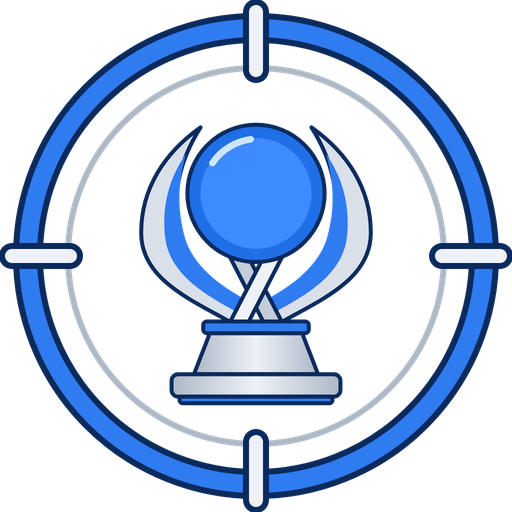
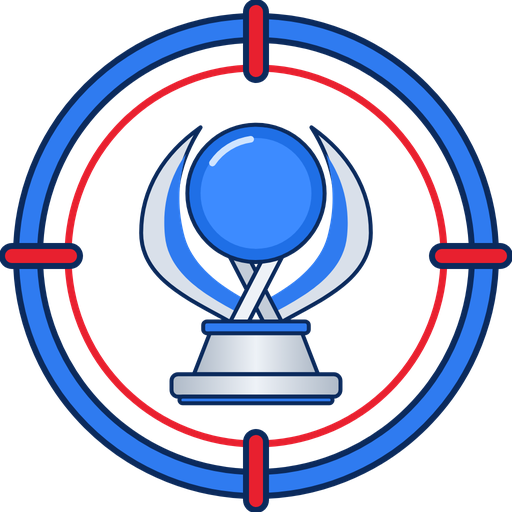
Ícone: mira com detalhes em vermelho
As marcas da mira e o anel interno ficam vermelhos; ícones de todas as
densidades, telas de abertura e imagens da Play Store regerados.

Claude-Session: https://claude.ai/code/session_017mpu5v6dnX2X2pzJxWtcg4

Changed region(s): [[0.0, 0.0, 1.0, 1.0]]

diff --git a/README.md b/README.md
@@ -130,7 +130,7 @@ npm run android:build              # compila mobile/ e copia para android/
 npx cap open android               # abre no Android Studio → Run
 ```
 
-O ícone é um troféu de platina em 2D dentro de um alvo de caça (mira), sem os símbolos dos botões da PlayStation, com fundo transparente, desenhado em vetor em `assets/app-icon.svg` (com uma versão `assets/app-icon.png` de 1024 px). Os PNGs gerados a partir dele ficam em `android/app/src/main/res/`: ícone comum e redondo, ícone adaptativo (troféu na camada da frente e camada de fundo transparente) e as telas de abertura. Para a Play Store há `assets/play-store-icon.png` (512 px, fundo escuro) e `assets/play-store-feature.png` (imagem de destaque 1024×500).
+O ícone é um troféu de platina em 2D dentro de um alvo de caça (mira azul com detalhes em vermelho), sem os símbolos dos botões da PlayStation, com fundo transparente, desenhado em vetor em `assets/app-icon.svg` (com uma versão `assets/app-icon.png` de 1024 px). Os PNGs gerados a partir dele ficam em `android/app/src/main/res/`: ícone comum e redondo, ícone adaptativo (troféu na camada da frente e camada de fundo transparente) e as telas de abertura. Para a Play Store há `assets/play-store-icon.png` (512 px, fundo escuro) e `assets/play-store-feature.png` (imagem de destaque 1024×500).
 
 > ⚠ A API da PSN usada aqui não é oficial. A Sony pode mudar ou bloquear esse fluxo, e o uso pode conflitar com os termos de serviço da PSN. O app não é afiliado à Sony.
 

diff --git a/docs/play-store.md b/docs/play-store.md
@@ -68,7 +68,7 @@ segredos, o AAB é compilado só para conferir e não é publicado como artefato
 - **Nome embaixo do ícone:** `Plathunt` (vem de `capacitor.config.ts` e `android/app/src/main/res/values/strings.xml`).
 - O nome não usa "PlayStation", "PSN" nem "PS" (marcas da Sony). Na descrição, citar
   que o app funciona com os troféus da PSN é permitido, junto do aviso "não afiliado à Sony".
-- **Ícone:** troféu de platina dentro de um alvo de caça (mira), sem os símbolos dos botões da PlayStation (`assets/app-icon.svg`).
+- **Ícone:** troféu de platina dentro de um alvo de caça (mira azul com detalhes em vermelho), sem os símbolos dos botões da PlayStation (`assets/app-icon.svg`).
 
 ## Telas e aparelhos
 
